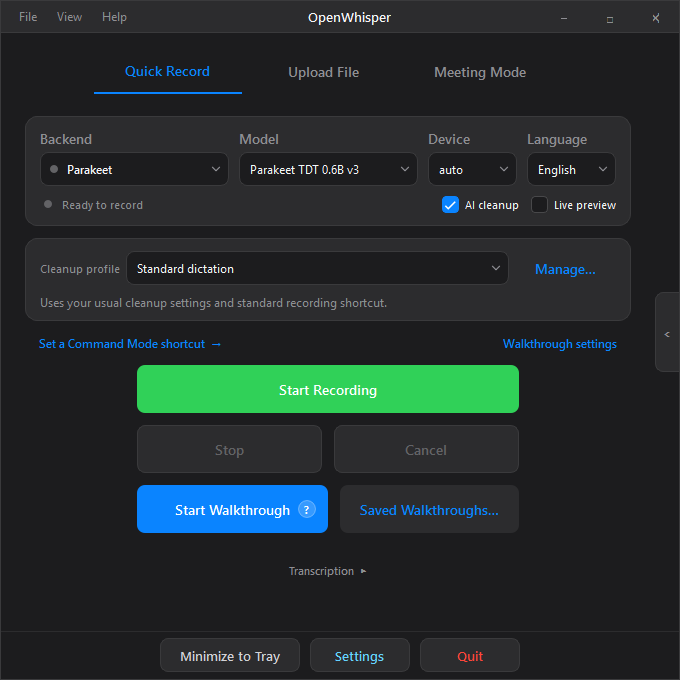
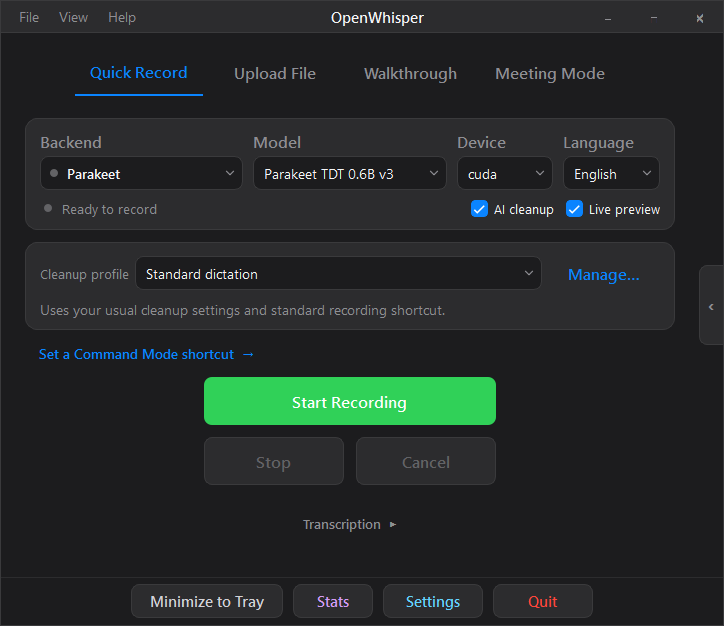
Show the current main window in the README's first screenshot
The Quick Record capture predated the Walkthrough tab, the per-tab
window height and the Stats button in the footer. Recapture it from
the real window with Parakeet, AI cleanup and live preview on, and
show it at its native 724 px width.

diff --git a/README.md b/README.md
@@ -9,7 +9,7 @@ Use a [packaged release](#install) with bundled Python and dependencies, or [run
 **Feedback:** If you’re unhappy with any part of the app, please [open a GitHub issue](https://github.com/Knuckles92/OpenWhisper/issues) and I’ll do my best to make it right ASAP.
 
 <p align="center">
-  <img width="680" alt="OpenWhisper Quick Record" src="docs/screenshots/01-quick-record-idle.png" />
+  <img width="724" alt="OpenWhisper Quick Record with Parakeet, AI cleanup and live preview on" src="docs/screenshots/01-quick-record-idle.png" />
 </p>
 
 <p align="center">
